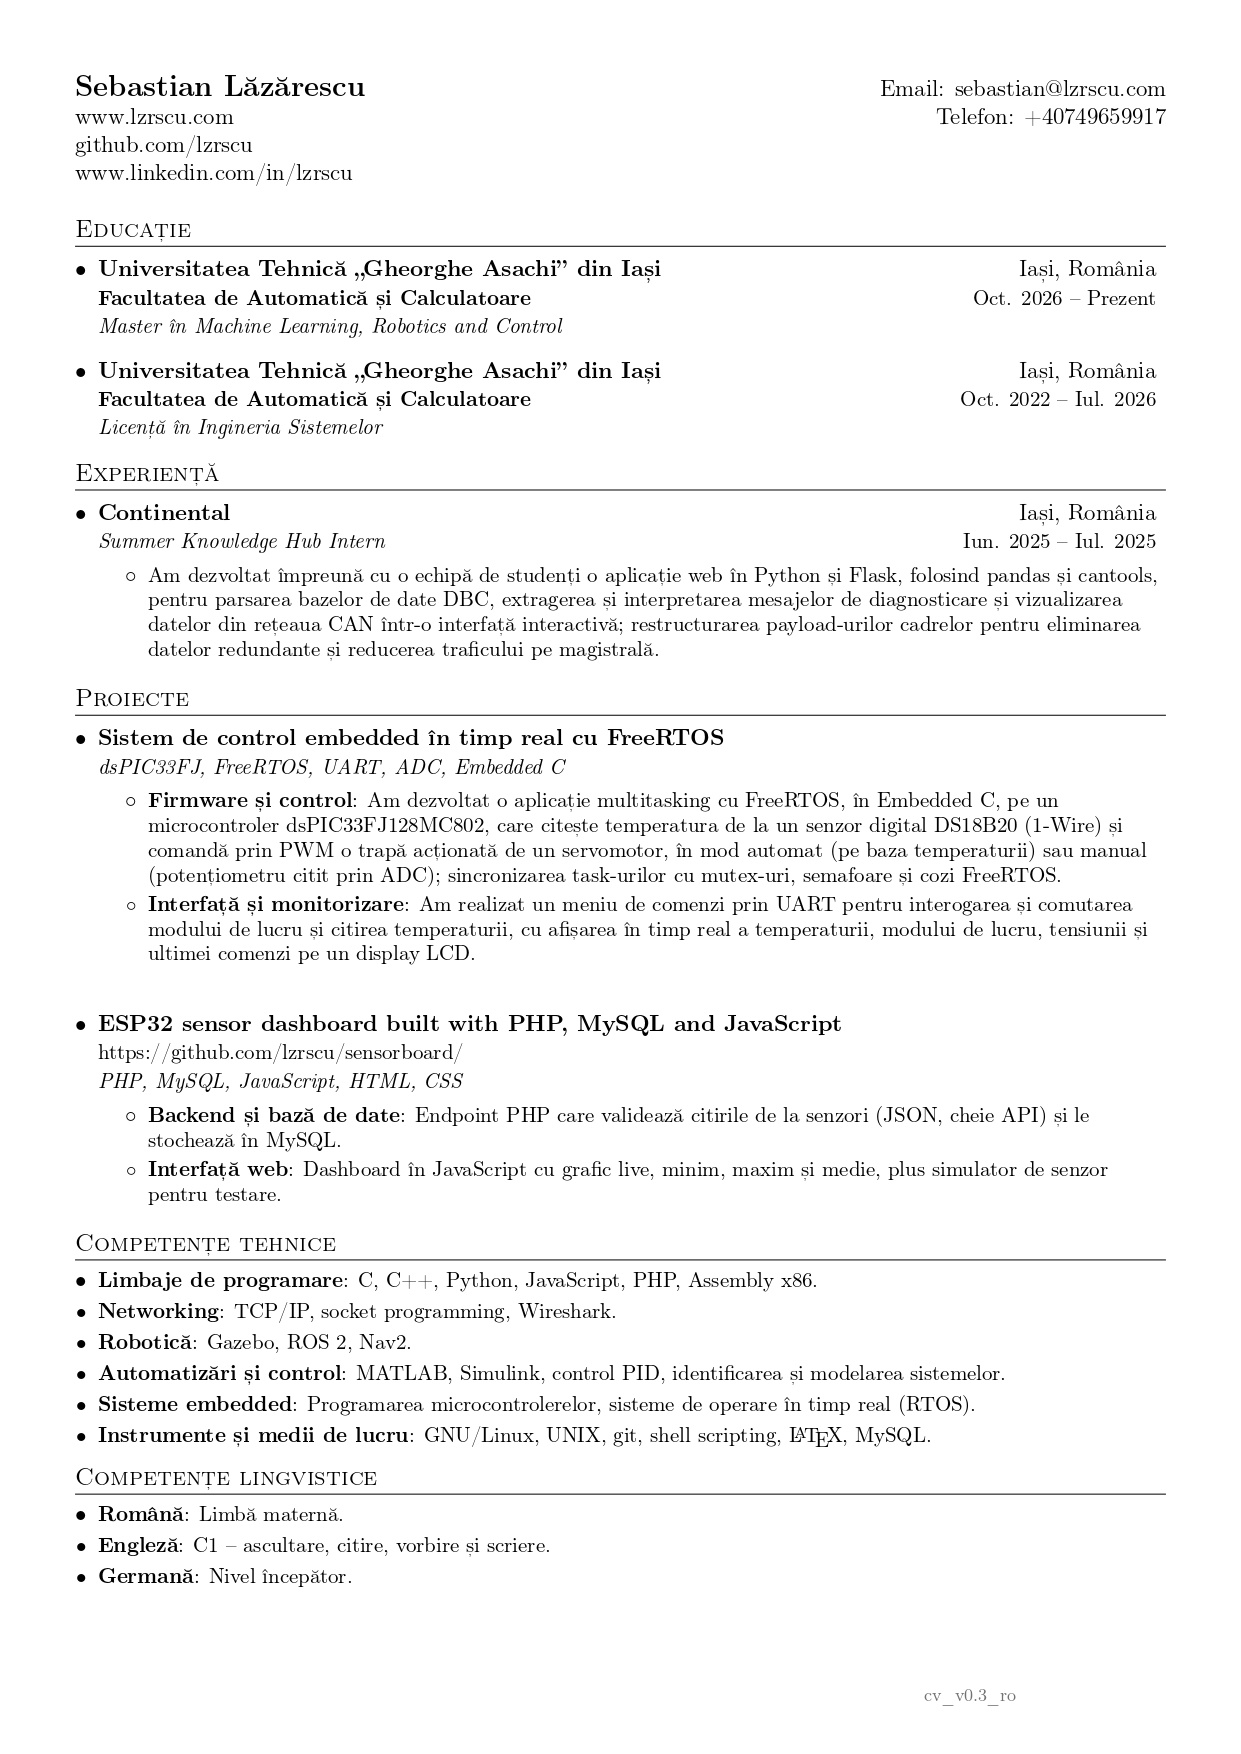
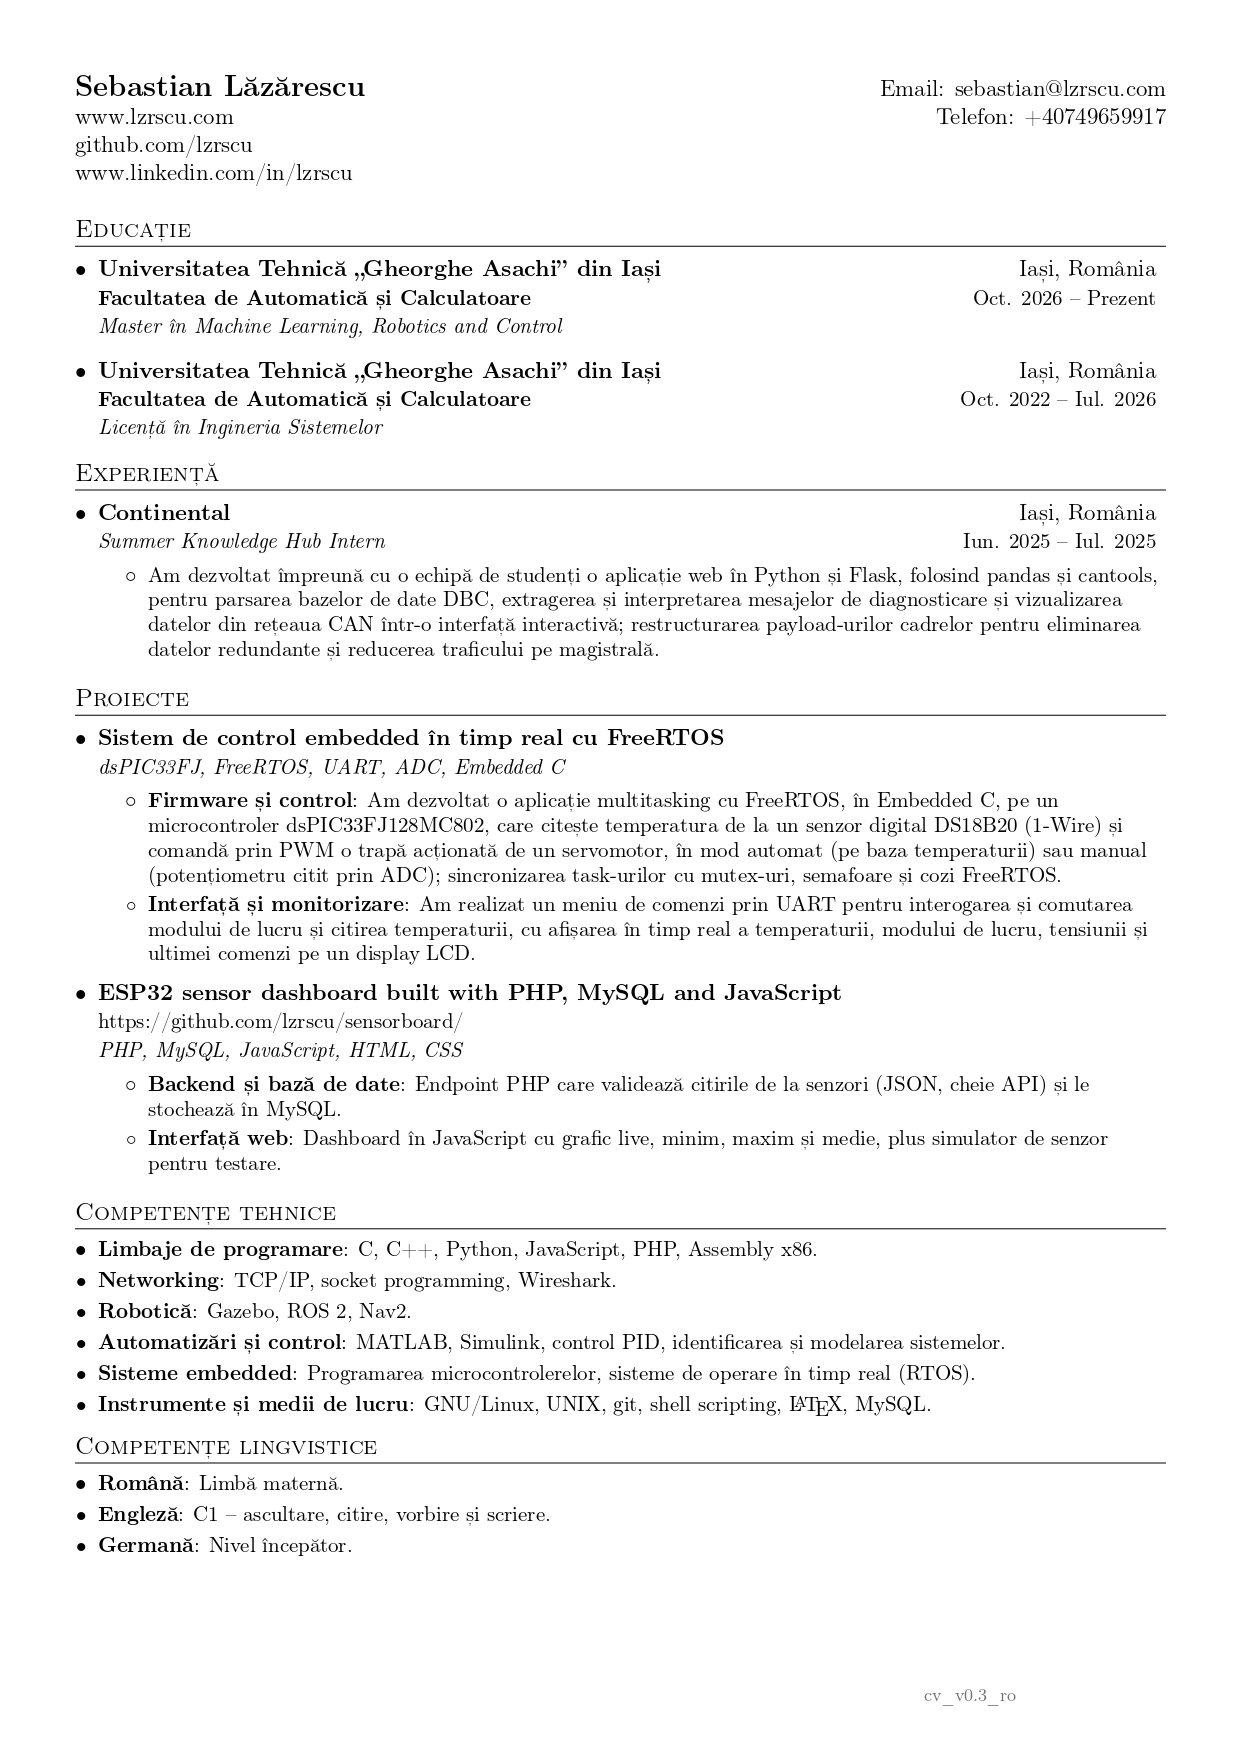
new stuff

Changed region(s): [[0.0612, 0.5542, 0.888, 0.9236]]

diff --git a/ro_cv.tex b/ro_cv.tex
@@ -196,8 +196,6 @@
           timp real a temperaturii, modului de lucru, tensiunii și ultimei
           comenzi pe un display LCD.}
       \resumeItemListEnd
-  \resumeSubHeadingListEnd
-  \resumeSubHeadingListStart
     \resumeGitProjectHeading{ESP32 sensor dashboard built with PHP, MySQL and JavaScript}
     {https://github.com/lzrscu/sensorboard/}
     {PHP, MySQL, JavaScript, HTML, CSS}
